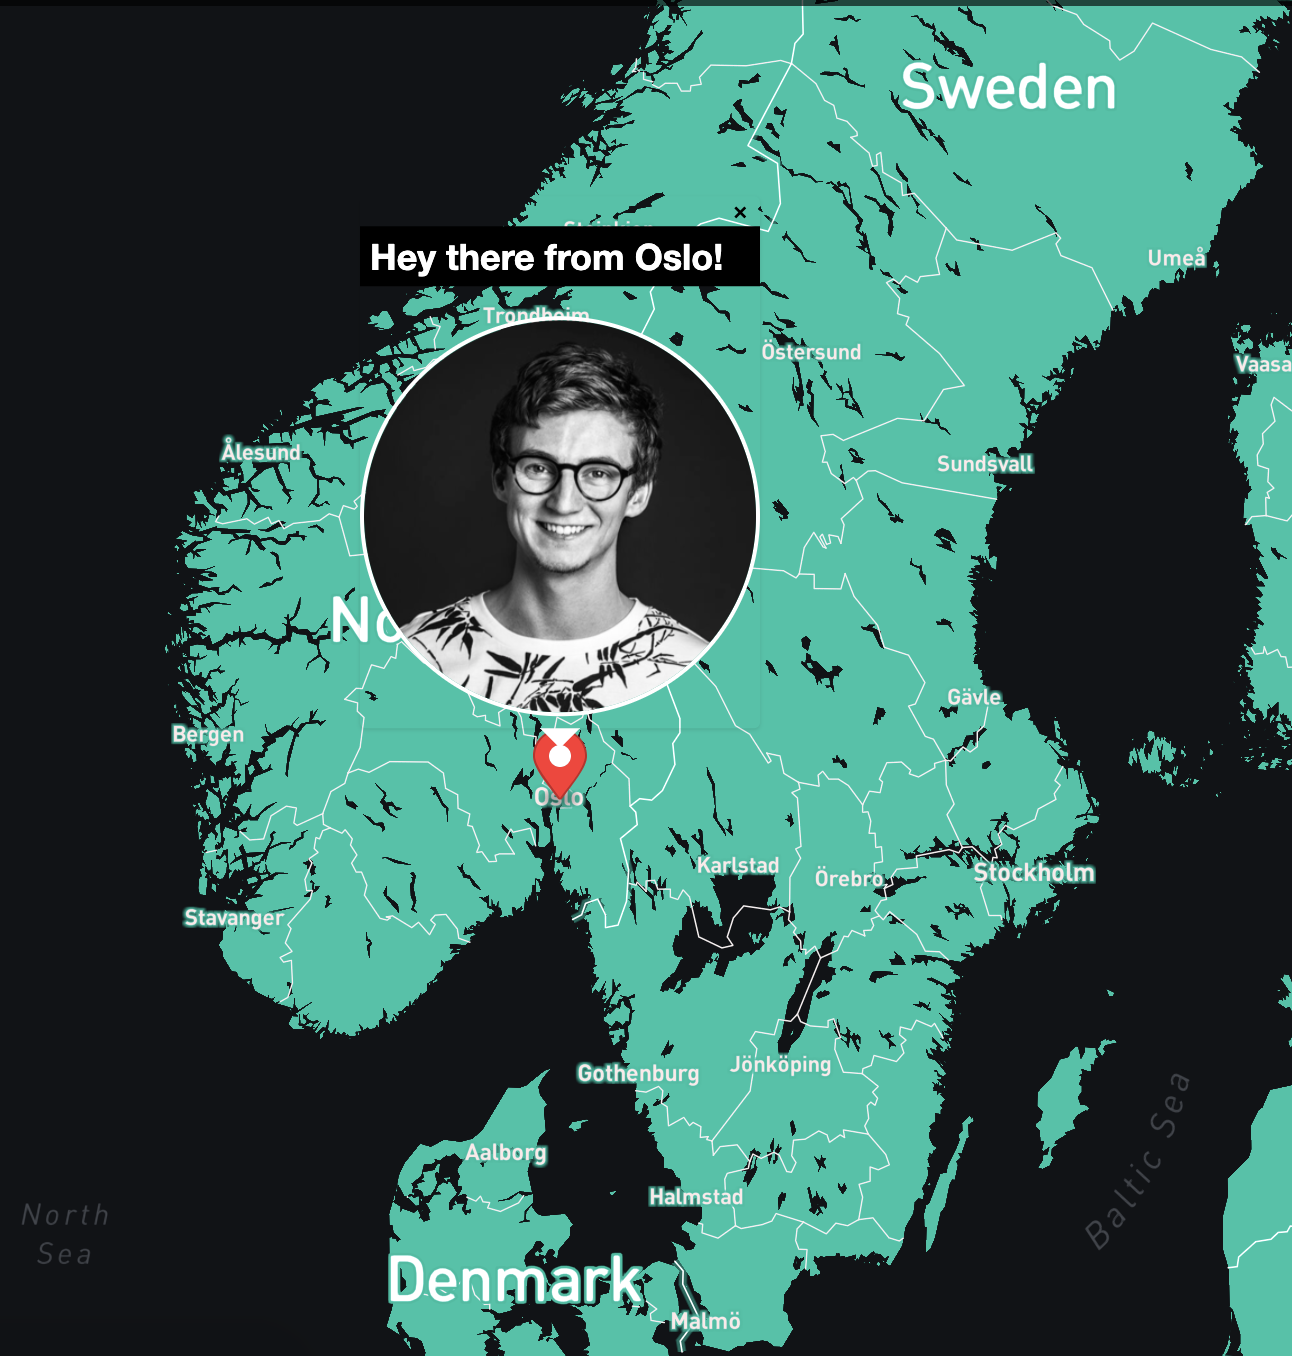
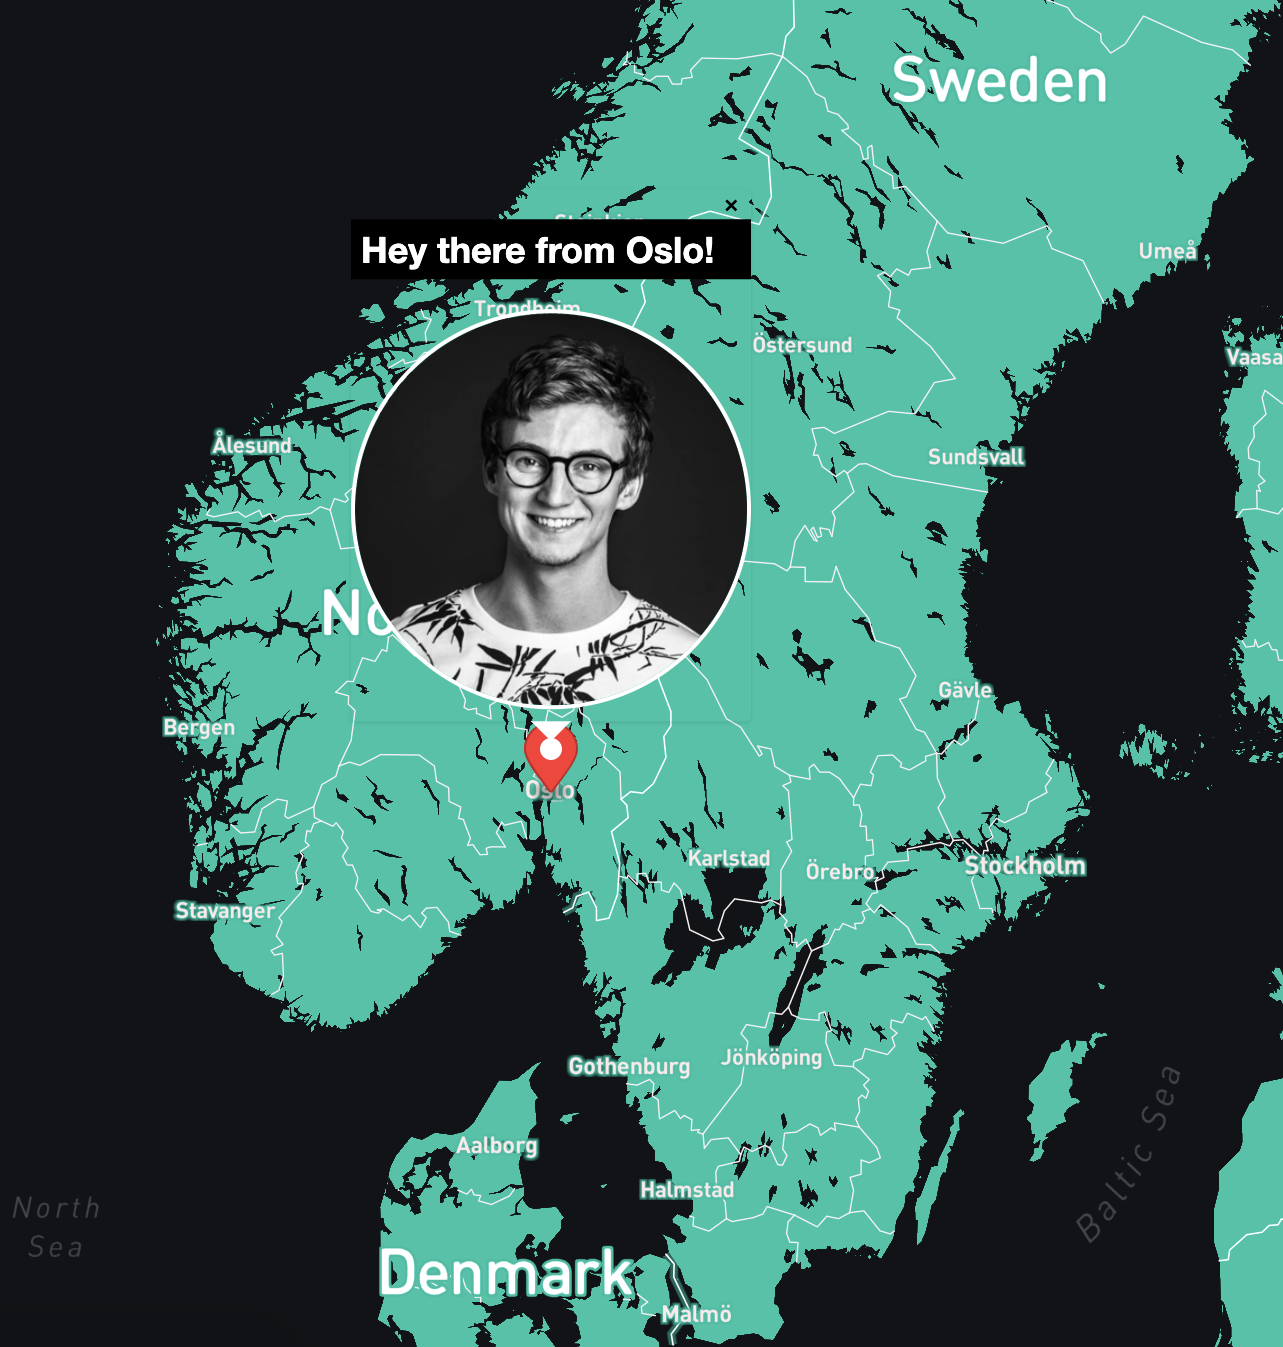
Update responsive map

diff --git a/styles/contact.css b/styles/contact.css
@@ -1,6 +1,6 @@
 .contact {
     color: white;
-    margin: 30px 0;
+    margin: 30px 0 0 0;
     display: flex;
     flex-direction: column;
     overflow: hidden !important;
@@ -14,6 +14,7 @@
     text-align: center;
     justify-content: center;
     align-items: center;
+    background: #111316;
 }
 
 .contact__info-text {
@@ -80,13 +81,13 @@
 textarea, input {
     color: rgb(255, 255, 255);
     background: #2c2c31;
-    border: none;
+    border: 0;
     font-size: 14px;
     margin: 10px 0;
     padding: 10px;
     letter-spacing: 1.2px;
     width: 100%;
-    font-family:inherit;
+    font-family: inherit;
 }
 
 .messagefield {
@@ -119,30 +120,57 @@ textarea, input {
     bottom: -60px;
 }
 
+.contact__map-pic {
+    margin-top: 40px;
+}
+
 .contact__map {
     visibility: hidden;
     height: 1px;
 }
+
 @media only screen and (min-width: 760px) and (max-width: 1000px) {
     .contact__info-form {
         width: 480px;
+    }
+    .contact__map-pic {
+        width: 750px;
+        display: flex;
+        visibility: visible;
+        align-content: flex-end;
+        justify-content: flex-end;
     }
 }
 
 @media only screen and (min-width: 1000px) {
     .contact {
         color: white;
-        margin: 30px 0;
-        display: flex;
-        flex-direction: row;
+        padding: 30px 0 0 0;
+        height: 100vh;
+        width: 100%;
+        position: relative;
+        display: grid;
+        grid-template-columns: repeat(6, 1fr);
+        grid-template-areas: ".... textfield ..... map map map"
+    }
+    .contact__info {
+        grid-area: textfield;
+        margin-right: 80px;
+    }
+    .contact__map {
+        visibility: visible;
+        height: auto !important;
+        grid-area: map;
+        align-items: flex-end;
+        position: absolute;
+        right: 0;
+        bottom: 0;
     }
     .contact__map-pic {
         visibility: none;
         height: 0;
         width: 0;
-    }
-    .contact__map {
-        visibility: visible;
-        height: auto !important;
+        border: none;
+        border-color: transparent;
     }
 }

diff --git a/styles/work.scss b/styles/work.scss
@@ -4,24 +4,25 @@
     flex-direction: row;
     justify-content: center;
     align-items: center;
-}
+    height: 100vh;
 
-.work__text {
-    width: 50%;
-    color: white;
-    margin: 10px 50px;
-    line-break: auto;
-    word-wrap: normal;
-    h1{
-        font-size: 4em;
+    .work__text {
+        width: 50%;
+        color: white;
+        margin: 10px 50px;
+        line-break: auto;
+        word-wrap: normal;
+        h1 {
+            font-size: 4em;
+        }
     }
-}
 
-.work__text span {
-    font-size: 3em;
-}
+    .work__text span {
+        font-size: 3em;
+    }
 
-.work__image {
-    width: 50%;
-    margin: 20px;
+    .work__image {
+        width: 50%;
+        margin: 20px;
+    }
 }

diff --git a/styles/Skills.scss b/styles/Skills.scss
@@ -53,9 +53,24 @@
 
 @media only screen and (min-width: 1000px) {
   .skilled {
+    .skilled__text {
+      width: 450px;
+      margin: 10px;
+  }
+  .skilled__box {
+    min-width: 700px;
+    margin: 10px;
+  }
+}
+}
+
+@media only screen and (min-width: 1200px) {
+  .skilled {
     flex-direction: row;
     justify-content: space-around;
     align-items: center;
+    padding: 60px 0;
+    height: 100vh;
     .skilled__text {
       width: 450px;
       margin: 10px;

diff --git a/components/map.js b/components/map.js
@@ -30,7 +30,7 @@ export default function Map() {
             <Head>
                 <link href='https://api.mapbox.com/mapbox-gl-js/v1.12.0/mapbox-gl.css' rel='stylesheet' />
             </Head>
-            <div id="contact__map" style={{ height: 800, width: 750 }} />
+            <div id="contact__map" style={{ height: 800, width: 700 }} />
         </div>
     )
 }

diff --git a/styles/map.scss b/styles/map.scss
@@ -1,11 +1,11 @@
 .map {
-    width: 750px;
+    width: 700px;
     height: 790px;
     z-index: 1;
 }
 
 .mapboxgl-popup-content {
-    background-color: transparent;
+    background-color: transparent !important;
     padding: 0;
     color: white;
 }

diff --git a/styles/about.scss b/styles/about.scss
@@ -108,6 +108,7 @@
     .about {
         color: white;
         margin: 60px 10px;
+        padding: 60px 0;
         display: flex;
         flex-direction: row;
         justify-content: space-around;
